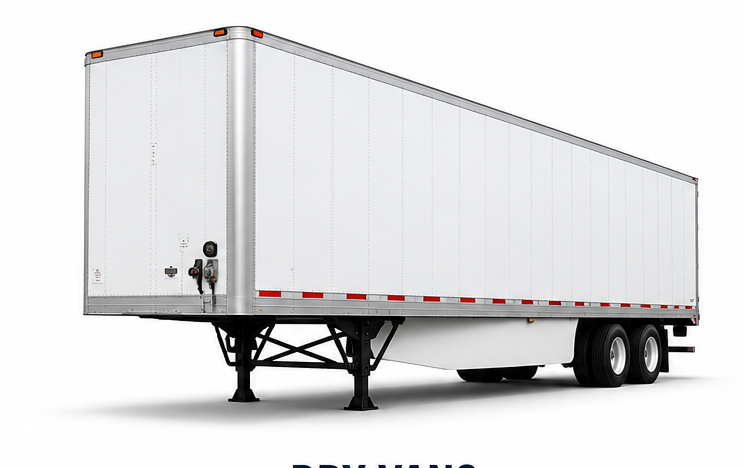
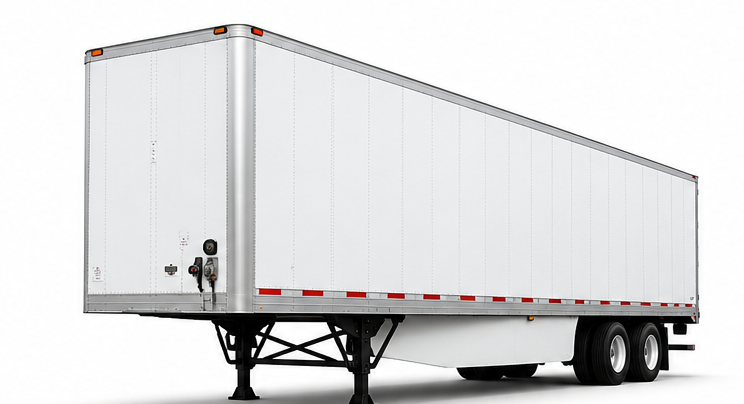
Fix Section 3 equipment rendering: contain + centered, re-crop top row, larger cards

Changed region(s): [[0.0927, 0.505, 0.9583, 1.0], [0.0927, 0.0297, 0.9583, 0.4455], [0.1237, 0.5644, 0.1546, 0.5941]]

diff --git a/css/styles.css b/css/styles.css
@@ -339,9 +339,13 @@ img, svg { display: block; max-width: 100%; }
 .trailer-tile { text-align: center; }
 .trailer-img {
   background: #fff; border: 1px solid var(--border); border-radius: 14px;
-  height: 168px; display: flex; align-items: center; justify-content: center; padding: 22px;
+  height: 194px;                                  /* ~15% larger card */
+  display: flex; align-items: center; justify-content: center; padding: 18px;
 }
-.trailer-img img { max-height: 120px; width: auto; }
+.trailer-img img {
+  max-width: 84%; max-height: 100%;               /* ~80-85% width, never crops */
+  width: auto; height: auto; object-fit: contain; display: block;
+}
 .trailer-label { margin-top: 14px; font-family: 'Sora', sans-serif; font-weight: 700; font-size: 16px; color: var(--ink); }
 
 /* Section 4 — Services */
